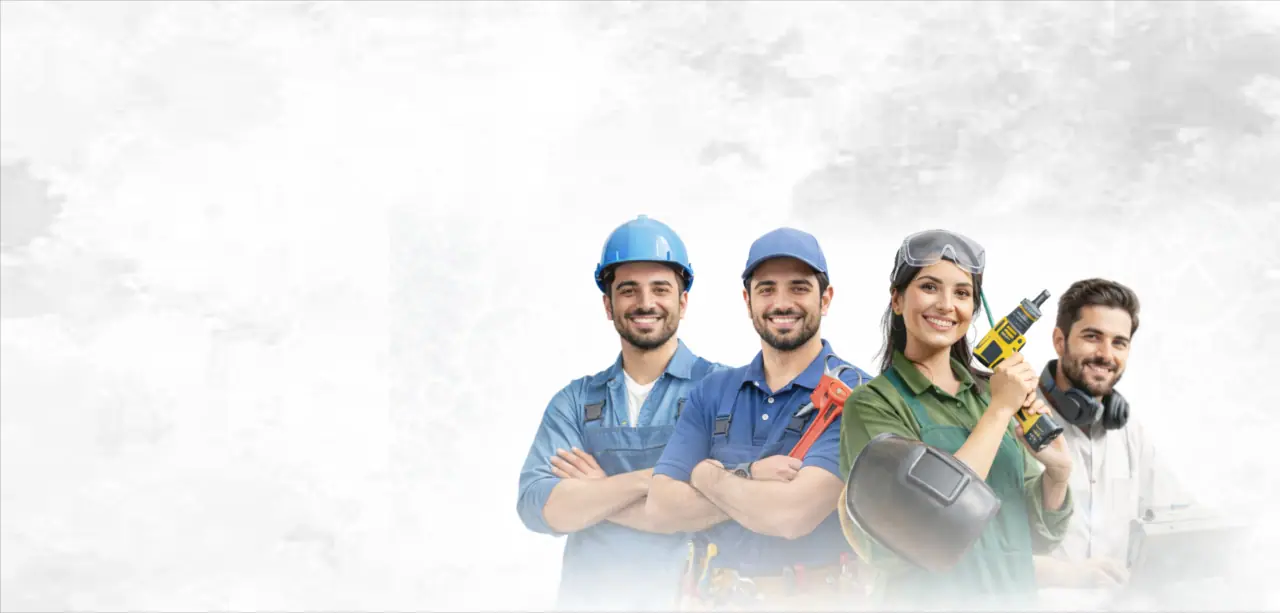
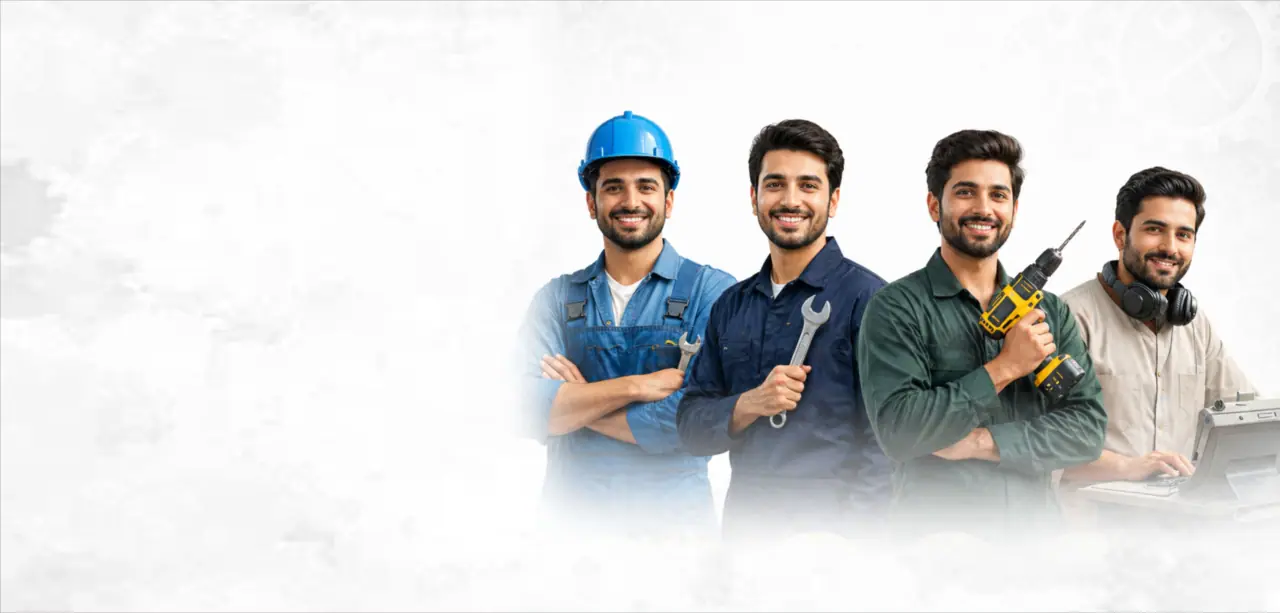
Update route type import and replace campaign image with optimized version
- Changed the import path for route types in next-env.d.ts to point to the development directory.
- Replaced the campaign image Vocational3.webp with an optimized version for better performance.

diff --git a/Components/Elements/Home/Header.js b/Components/Elements/Home/Header.js
@@ -92,7 +92,7 @@ const heroSlides = [
     },
   },
   {
-    image: "/img/Campaigns/Vocational3.webp",
+    image: "/img/Campaigns/Vocational.webp",
     imageMobile: "/img/Campaigns/Vocationalmobile.jpg",
     title: "VOCATIONAL TRAINING",
     subtitle: "Equip youth with technical skills for sustainable employment and self-reliance.",
@@ -108,7 +108,7 @@ const heroSlides = [
     },
   },
   {
-    image: "/img/Campaigns/MasjidMaktab2.webp",
+    image: "/img/Campaigns/MasjidMaktab.webp",
     imageMobile: "/img/Campaigns/Masjidmobile.jpg",
     title: "SCHOOL MASJID PROJECT",
     subtitle: "Building integrated school and masjid facilities to uplift communities spiritually and educationally.",
@@ -116,6 +116,23 @@ const heroSlides = [
     heroTitleLine1: "BUILD",
     heroTitleLine2: "TOGETHER",
     heroSubtitle: "Support integrated school and masjid facilities to uplift communities.",
+    heroStyle: {
+      titleHighlightColor: "#f15b43",
+      linePrimaryColor: "#f15b43",
+      lineSecondaryColor: "#65cabb",
+      titleLetterSpacing: "2px",
+    },
+  },
+  {
+    image: "/img/Campaigns/Qurbani3.jpg",
+    title: "QURBANI PROGRAM 2026",
+    subtitle:
+      "Participate in our Qurbani program to help distribute meat to deserving families during Eid ul Adha.",
+    link: "/qurbani",
+    heroTitleLine1: "QURBANI 2026",
+    heroTitleLine2: "SHARE THE BLESSING",
+    heroSubtitle:
+      "Join our Qurbani program and help deliver meat to families in need this Eid ul Adha.",
     heroStyle: {
       titleHighlightColor: "#f15b43",
       linePrimaryColor: "#f15b43",
@@ -291,6 +308,12 @@ export default function Header({ slides: slidesProp }) {
         .hero-slider .swiper-wrapper {
           height: 100%;
         }
+        .hero-slider .swiper-slide {
+          width: 100% !important;
+          max-width: 100%;
+          flex-shrink: 0;
+          box-sizing: border-box;
+        }
         .hero-slide {
           position: relative;
           width: 100%;
@@ -301,7 +324,12 @@ export default function Header({ slides: slidesProp }) {
           transform: translate3d(0, 0, 0);
           will-change: transform;
         }
-        .hero-slide-image {
+        .hero-slide .hero-slide-image {
+          position: absolute !important;
+          inset: 0 !important;
+          width: 100% !important;
+          height: 100% !important;
+          max-width: none !important;
           object-fit: cover;
           object-position: center;
           will-change: transform;
@@ -577,12 +605,6 @@ export default function Header({ slides: slidesProp }) {
           .hero-slide {
             height: 100% !important;
             min-height: 100% !important;
-          }
-          .hero-slide .hero-slide-image {
-            position: absolute !important;
-            inset: 0 !important;
-            width: 100% !important;
-            height: 100% !important;
           }
           .hero-content {
             padding: 126px 20px 32px;

diff --git a/data/campaignImageAssets.js b/data/campaignImageAssets.js
@@ -82,15 +82,15 @@ const campaignImageAssets = {
   },
   "/img/Campaigns/Vocational3.webp": {
     "optimized": "/img/campaigns-opt/img_campaigns_vocational3.webp",
[2 lines of base64/hex data omitted]
   },
   "/img/Campaigns/MasjidMaktab2.webp": {
     "optimized": "/img/campaigns-opt/img_campaigns_masjidmaktab2.webp",
[1 lines of base64/hex data omitted]
   },
-  "/img/causes/qurbani1.jpg": {
-    "optimized": "/img/campaigns-opt/img_causes_qurbani1.webp",
[1 lines of base64/hex data omitted]
+  "/img/Campaigns/2026 Qurbani.jpg": {
+    "optimized": "/img/campaigns-opt/img_campaigns_2026_qurbani.webp",
[1 lines of base64/hex data omitted]
   },
   "/img/causes/cause13.jpg": {
     "optimized": "/img/campaigns-opt/img_causes_cause13.webp",

diff --git a/next-env.d.ts b/next-env.d.ts
@@ -1,7 +1,7 @@
 /// <reference types="next" />
 /// <reference types="next/image-types/global" />
 /// <reference types="next/navigation-types/compat/navigation" />
-import "./.next/types/routes.d.ts";
+import "./.next/dev/types/routes.d.ts";
 
 // NOTE: This file should not be edited
 // see https://nextjs.org/docs/app/api-reference/config/typescript for more information.
